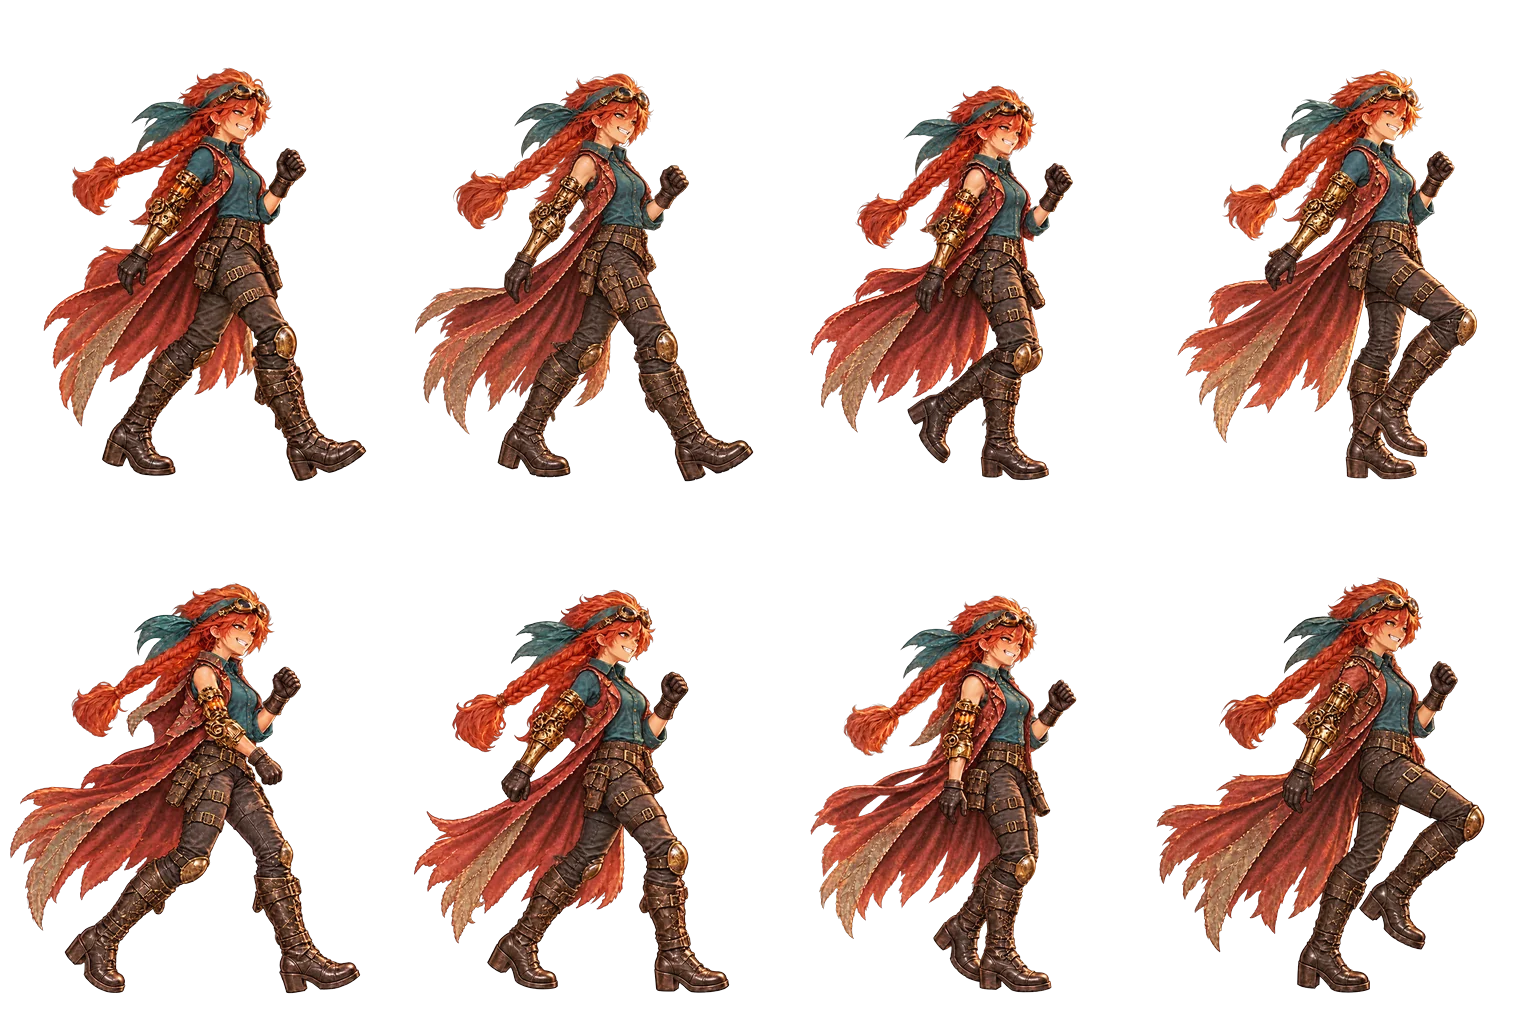
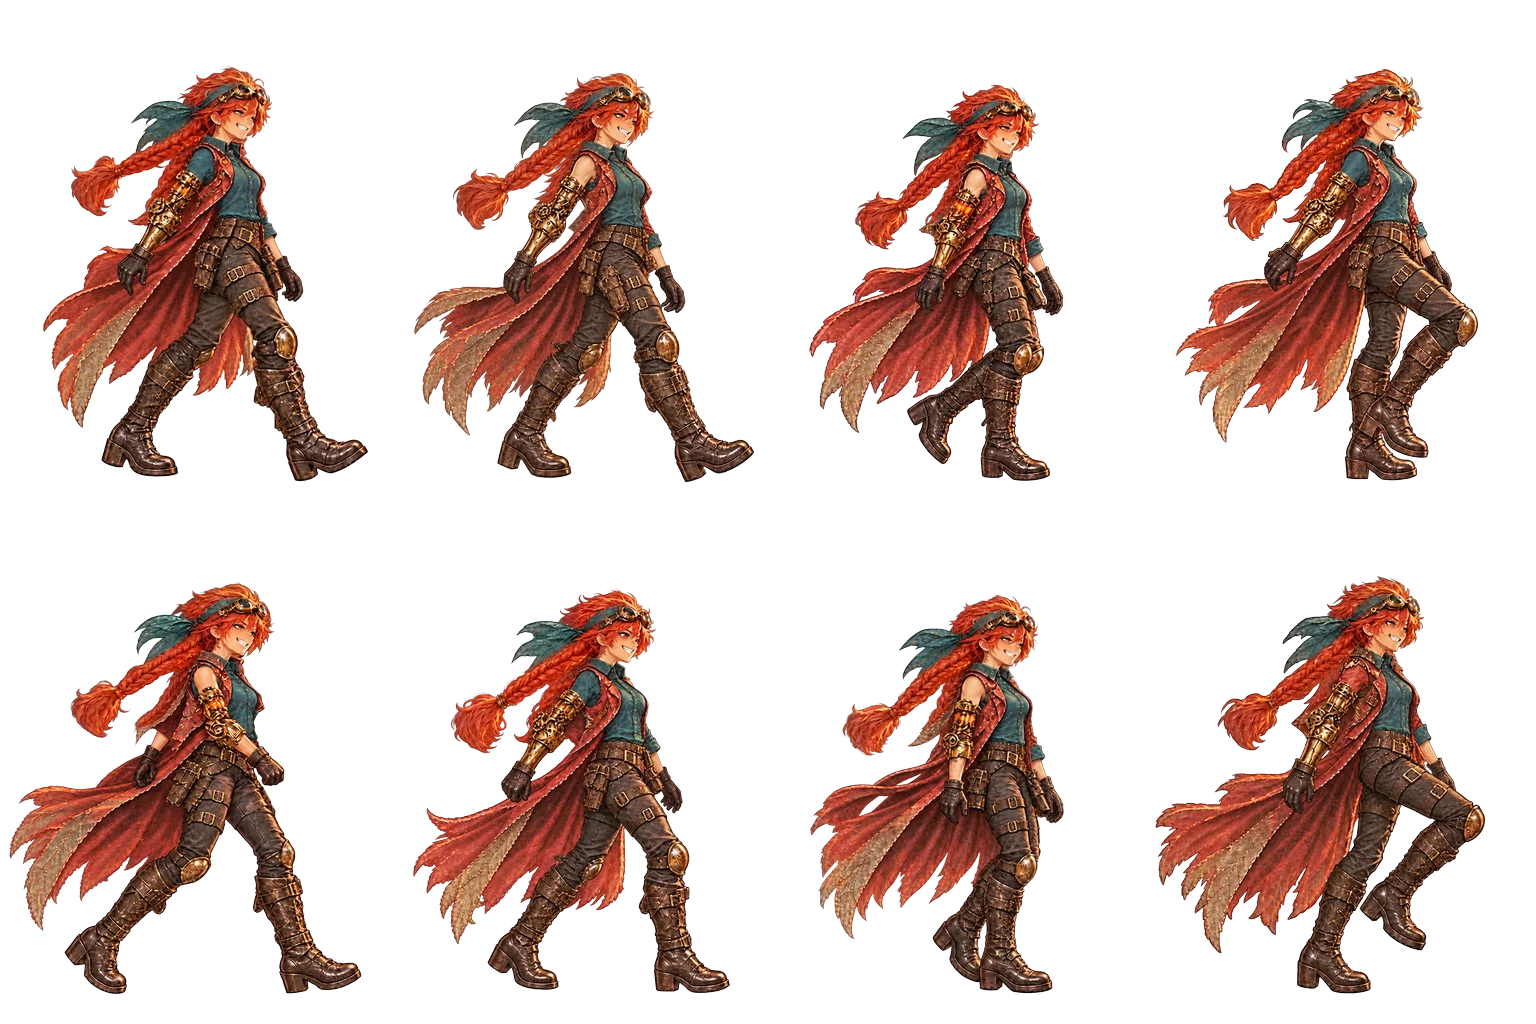
Wren's empty-handed walk swings her free arm low too
Same fix as Cade's: her gloved hand stayed up in a fist where the blaster
had been. Codex repainted all eight cells; the fit script now takes the hero.

Claude-Session: https://claude.ai/code/session_01JG9XVx7ekEzCTp7T6JyNCj

diff --git a/tools/art/walk-arms.py b/tools/art/walk-arms.py
@@ -1,7 +1,7 @@
-"""Cade's empty-handed walk, second pass: his free arm swings low instead of staying up in a fist.
+"""Empty-handed walks, second pass: the free arm swings low instead of staying up in a fist (Cade, Wren).
 
-python tools/art/cade-walk-arms.py fit <dir>    fit Codex's cN/out.png onto walk_bare's cells -> art/raw/wave-12/knight_walk_arms/cN.png
-python tools/art/cade-walk-arms.py assemble     write the fitted cells into characters/ally_knight/walk_bare.webp
+python tools/art/walk-arms.py fit <hero> <dir> [out.png]   fit Codex's cN/<out.png> onto walk_bare's cells -> art/raw/wave-12/<hero>_walk_arms/cN.png
+python tools/art/walk-arms.py assemble <hero>             write the fitted cells into characters/ally_<hero>/walk_bare.webp
 Briefs, references and Codex's raw output were made per cell (one edit of each walk_bare cell, run on the parent's PC).
 """
 import json
@@ -15,16 +15,17 @@ sys.path.insert(0, str(Path(__file__).parent))
 fit = __import__("wave12-fit")
 
 ROOT = Path(__file__).resolve().parents[2]
-SHEET = ROOT / "public/assets/characters/ally_knight/walk_bare.webp"
-OUT = ROOT / "art/raw/wave-12/knight_walk_arms"
+HERO = sys.argv[2]
+SHEET = ROOT / f"public/assets/characters/ally_{HERO}/walk_bare.webp"
+OUT = ROOT / f"art/raw/wave-12/{HERO}_walk_arms"
 
 
-def do_fit(src):
+def do_fit(src, name="out.png"):
     sheet = Image.open(SHEET).convert("RGBA")
     for c in range(8):
         old = sheet.crop(fit.cell_box("walk", c))
         w, h = old.size
-        g = Image.open(Path(src) / f"c{c}/out.png").convert("RGBA")
+        g = Image.open(Path(src) / f"c{c}/{name}").convert("RGBA")
         if g.size != (1024, 1024):
             g = g.resize((1024, 1024), Image.LANCZOS)
         best = (1e9, 1.0, 0, 0)
@@ -61,4 +62,4 @@ def do_assemble():
 
 
 if __name__ == "__main__":
-    do_fit(sys.argv[2]) if sys.argv[1] == "fit" else do_assemble()
+    do_fit(*sys.argv[3:5]) if sys.argv[1] == "fit" else do_assemble()

diff --git a/art/waves/wave-12-forged-weapons.md b/art/waves/wave-12-forged-weapons.md
@@ -153,5 +153,5 @@ Wren's and Maren's talking poses (`field.webp`) keep their weapons: the game onl
 - Several cells came back drawn up to 13% larger (Wren's cast and victory, Knox's cast, Maren's frame 5 of the walk) and were scaled back to the old figure.
 - PR #27 wasn't on this branch yet, so Maren's new entries carry `scale` by hand (battle_1, battle_2, stand 1.12; walk_bare 1.1).
 - The walks' upper bodies stay within 4 px of the old walks frame by frame, so `align_walks.py` wasn't rerun.
-- 18 Oct, the parent's playtest: Cade's empty-handed walk kept his free hand up in a fist where the sword had been ("a bro fist the whole time"). Each `walk_bare` cell was edited again with Codex so that arm hangs and swings low with the hand loosely open (`tools/art/cade-walk-arms.py`; briefs in `art/raw/wave-12/knight_walk_arms/`). Legs, shield, size and feet unchanged (feet within 1 px). Wren's walk also holds a fist up and could take the same pass.
+- 18 Oct, the parent's playtest: Cade's empty-handed walk kept his free hand up in a fist where the sword had been ("a bro fist the whole time"). Each `walk_bare` cell was edited again with Codex so that arm hangs and swings low with the hand loosely open (`tools/art/walk-arms.py`; raw cells in `art/raw/wave-12/<hero>_walk_arms/`). Legs, shield, size and feet unchanged (feet within 1 px). Wren's walk had the same raised fist (her gloved arm, not the brass one) and got the same pass at the parent's word.
 - 17 Oct, Section C: all ten battle sheets and the ten icons redone (`tools/art/wave12-c.py`, `wave12-icons.py`), each cell checked with a red/cyan overlay (`wave12-overlay.py`). Wren's, Knox's and Tamsin's first gold step 1 looked too close to their old weapons at 128 px, so it was pushed further (bigger, brighter gold, no brown). Section C fits run without the feet snap (`WAVE12_NOSNAP`), because a big blade's glow below the boots dragged heroes up; feet were checked by eye. A weapon reaching the cell edge fades out over 12 px (Cade's step 1 victory, step 2 attack). Retries are listed in `art/review/wave-12.md`.
